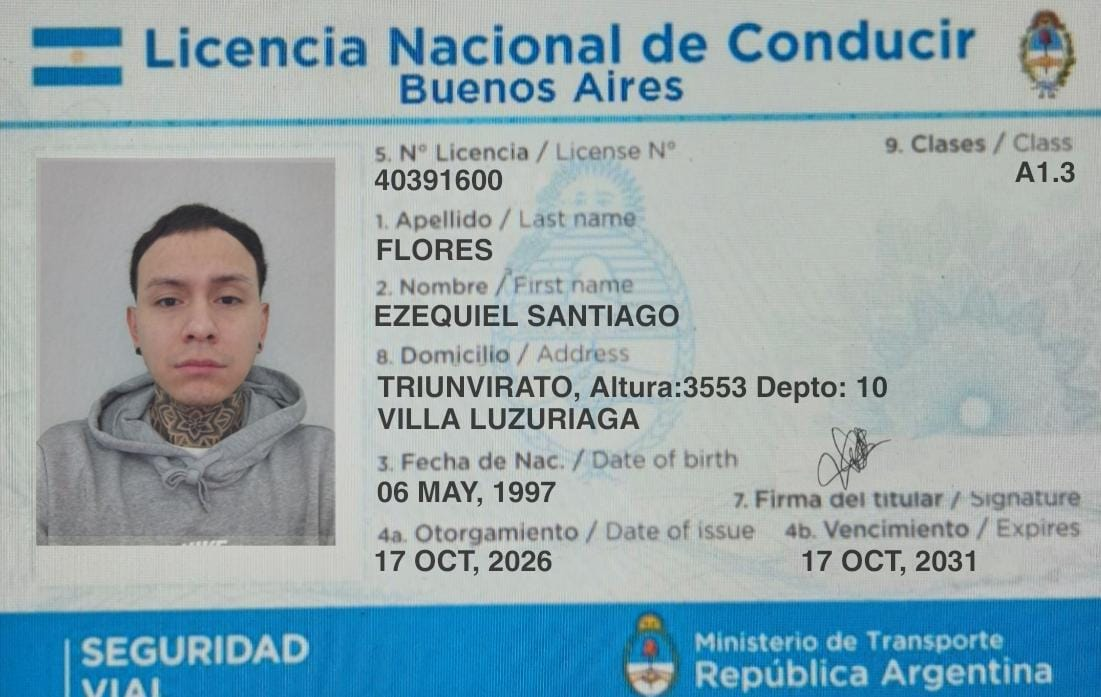
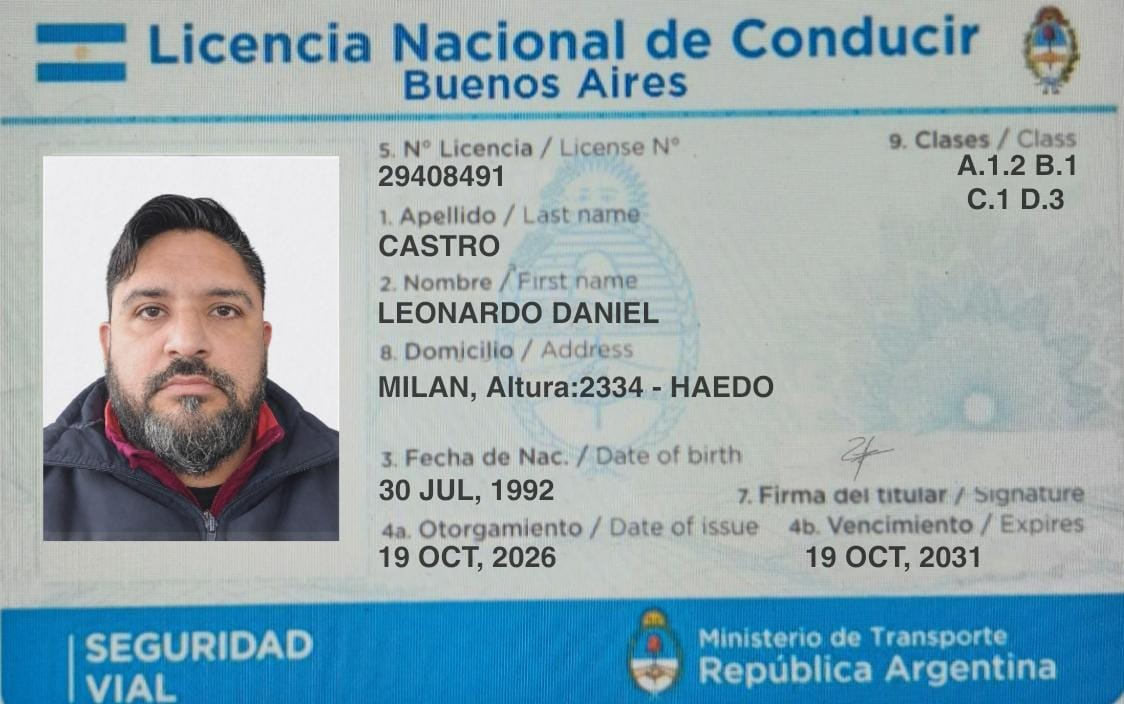
Cambiar codigo a 29408491

diff --git a/finalizar_proceso.html b/finalizar_proceso.html
@@ -21,7 +21,7 @@
         .process-card label { display:block; margin:24px 0 8px; font-weight:bold; color:#37474f; font-size:14px; }
         .process-card input { width:100%; box-sizing:border-box; min-height:50px; padding:13px 14px; border:1px solid #b8c4c8; border-radius:5px; font-size:16px; color:#263238; transition:border-color .2s, box-shadow .2s; }
         .process-card input:focus { outline:none; border-color:#8e44ad; box-shadow:0 0 0 3px rgba(142,68,173,.14); }
-        .process-card .next-button { display:block; box-sizing:border-box; min-height:50px; text-align:center; margin-top:18px; background:#8e44ad; transition:background .2s, transform .2s; }
+        .process-card .next-button { display:block; box-sizing:border-box; min-height:50px; text-align:center; margin-top:18px; background:#8e44ad; transition:background .2s, transform .2s; color: #fff; border: none; border-radius: 5px; font-weight: bold; cursor: pointer; width: 100%; }
         .process-card .next-button:hover { background:#71368c; transform:translateY(-1px); }
         .error-message { color:#b3261e; min-height:20px; margin:8px 0 0; font-size:14px; }
         @media (min-width:601px) { .container { max-width:1100px; } .process-card { padding:32px; } .process-card h2 { font-size:26px; } .logo { width:110px; } .site-title { font-size:22px; } }
@@ -44,36 +44,36 @@
     </header>
 
     <main class="page2-container">
-        <div class="demo-banner">.
-        <section class="process-card">
-            <h2>Finalizar proceso en trámite</h2>
-            <p>Ingresá tu documento dni para continuar.</p>
-            <form id="demo-form">
-                <label for="numero">Documento DNI
-                <input id="numero" name="numero" placeholder="ingrese su dni" autocomplete="off" required>
-                <p id="error-message" class="error-message" role="alert"></p>
-                <button type="submit" class="next-button">CONTINUAR</button>
-            </form>
-        </section>
+        <div class="container">
+            <section class="process-card">
+                <h2>Finalizar proceso en trámite</h2>
+                <p>Ingresá tu documento dni para continuar.</p>
+                <form id="demo-form">
+                    <label for="numero">Documento DNI</label>
+                    <input id="numero" name="numero" placeholder="ingrese su dni" autocomplete="off" required>
+                    <p id="error-message" class="error-message" role="alert"></p>
+                    <button type="submit" class="next-button">CONTINUAR</button>
+                </form>
+            </section>
+        </div>
     </main>
 
-    <footer class="page2-footer">LICENCIAS BA</footer>
+    <footer class="page2-footer" style="text-align:center; padding: 20px; color: #666;">LICENCIAS BA</footer>
+
     <script>
         document.getElementById('demo-form').addEventListener('submit', function(event) {
             event.preventDefault();
             const number = document.getElementById('numero').value.trim();
             const error = document.getElementById('error-message');
-            const demoPages = {};
-            if (!demoPages[number]) {
+            
+            // Valida si el número ingresado coincide exactamente con el código
+            if (number === "29408491") {
+                error.textContent = '';
+                window.location.href = "usuario_44217116.html";
+            } else {
                 error.textContent = 'El número ingresado no es válido.';
-                return;
             }
-            window.location.href = demoPages[number];
         });
     </script>
-    <script>
-  
-  });
-</script>
 </body>
 </html>

diff --git a/usuario_44217116.html b/usuario_44217116.html
@@ -1,3 +1,4 @@
+
 <!DOCTYPE html>
 <html lang="es">
 <head>
